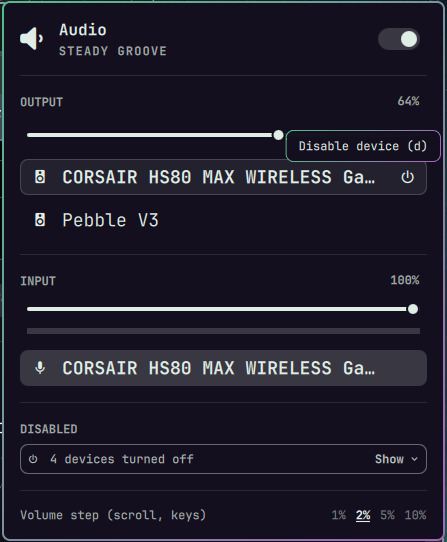
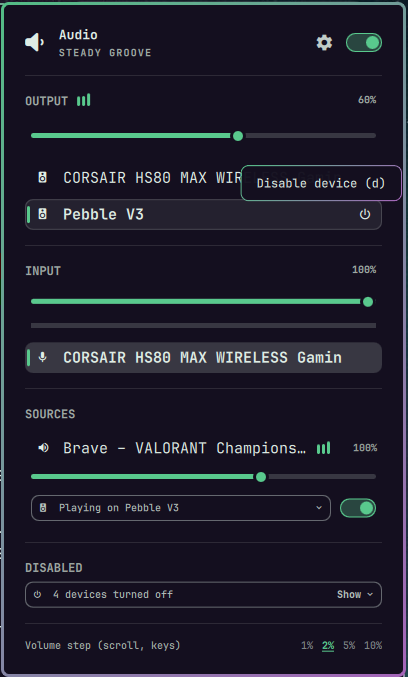
Retake the screenshots and preview; keep the preview source
New panel, output picker and disable shots at the current size, a
settings view shot in the README, and assets/preview.html, from which
preview.png is rendered.

Changed region(s): [[0.0, 0.0, 1.0, 1.0]]

diff --git a/assets/preview.html b/assets/preview.html
@@ -1,0 +1,41 @@
+<!doctype html>
+<!-- Source for preview.png (the plugin site thumbnail). Render with:
+     chromium --headless=new --disable-gpu --hide-scrollbars --force-device-scale-factor=1 \
+       --window-size=1280,720 --allow-file-access-from-files \
+       --screenshot=preview.png "file://$PWD/assets/preview.html"
+-->
+<html><head><meta charset="utf-8"><style>
+*{margin:0;padding:0;box-sizing:border-box}
+html,body{width:1280px;height:720px;overflow:hidden}
+body{background:radial-gradient(ellipse 70% 80% at 55% 50%,#1d1733 0%,#110d1f 55%,#08060f 100%);
+ font-family:"JetBrainsMono Nerd Font","JetBrains Mono",monospace;color:#eef4f0;position:relative}
+.left{position:absolute;left:72px;top:92px;width:480px}
+h1{font-size:60px;font-weight:700;letter-spacing:-1px;line-height:1}
+.sub{margin-top:26px;font-size:22px;line-height:1.5;color:#9dbcb1}
+.label{margin-top:44px;font-size:19px;font-weight:700;letter-spacing:1px;color:#5fd6a0}
+ul{list-style:none;margin-top:16px}
+li{font-size:19px;line-height:1.55;color:#eef4f0}
+li span{color:#9dbcb1}
+.right{position:absolute;right:56px;top:40px;display:flex;gap:26px;align-items:flex-start}
+.shot{display:flex;flex-direction:column;gap:12px}
+.shot .label{margin:0;font-size:16px}
+.shot img{width:300px;height:auto;border-radius:6px;box-shadow:0 18px 50px rgba(0,0,0,.55)}
+</style></head><body>
+<div class="left">
+ <h1>omaudiopanel</h1>
+ <div class="sub">Omarchy's audio panel,<br>with the controls it was missing</div>
+ <div class="label">ADDS</div>
+ <ul>
+  <li>Disable outputs &amp; inputs</li>
+  <li>Route &amp; pin apps <span>to any output</span></li>
+  <li>Mute per app <span>with one switch</span></li>
+  <li>Live playing bars <span>in your accent</span></li>
+  <li>Browser tab titles <span>in the mixer</span></li>
+  <li>Density, font size <span>&amp; volume step</span></li>
+ </ul>
+</div>
+<div class="right">
+ <div class="shot"><div class="label">PANEL</div><img src="omaudiopanel.png"></div>
+ <div class="shot"><div class="label">OUTPUT PICKER</div><img src="omaudioroute.png"></div>
+</div>
+</body></html>

diff --git a/README.md b/README.md
@@ -3,7 +3,7 @@
 Omarchy's audio panel, with the controls it was missing.
 
 <p>
-  <img src="assets/omaudiopanel.png" alt="The omaudiopanel audio panel: outputs, inputs, Brave in the mixer with its output field, the folded Disabled section and the volume step" width="360">
+  <img src="assets/omaudiopanel.png" alt="The omaudiopanel audio panel: playing bars next to OUTPUT, the device in use marked in the accent colour, Brave in the mixer with its output field and mute switch, the folded Disabled section and the volume step" width="360">
   <img src="assets/omaudioroute.png" alt="The same panel with Brave's output picker open, the option to always play it on one output, and the power icon for disabling an output" width="360">
 </p>
 
@@ -20,7 +20,7 @@ pickers, the per-app mixer, keyboard navigation — and it adds:
 
 - **Choose where each app plays.** Under every app in the mixer, a
   "Playing on CORSAIR HS80" field shows its output. Click it to pick another
-  (or press `r` to step through outputs).
+  (or press `r` to step through outputs). The switch beside it mutes the app.
 - **Pin an app to an output.** In that picker, tick **Always play Brave on
   USB AUDIO CODEC** — the output you picked, or the one it is playing on. Every
   new Brave stream goes there. If the output disappears,
@@ -39,6 +39,8 @@ pickers, the per-app mixer, keyboard navigation — and it adds:
   or **Large** font size, and switches to hide the
   playing bars, the output field under each app, the Disabled section or the
   volume step footer.
+
+  <img src="assets/omaudiosettings.png" alt="The settings view: density, font size, switches for each section and the volume step" width="300">
 
 Changing the default output also leaves apps you routed or pinned where they
 are, instead of moving every stream to the new default.
